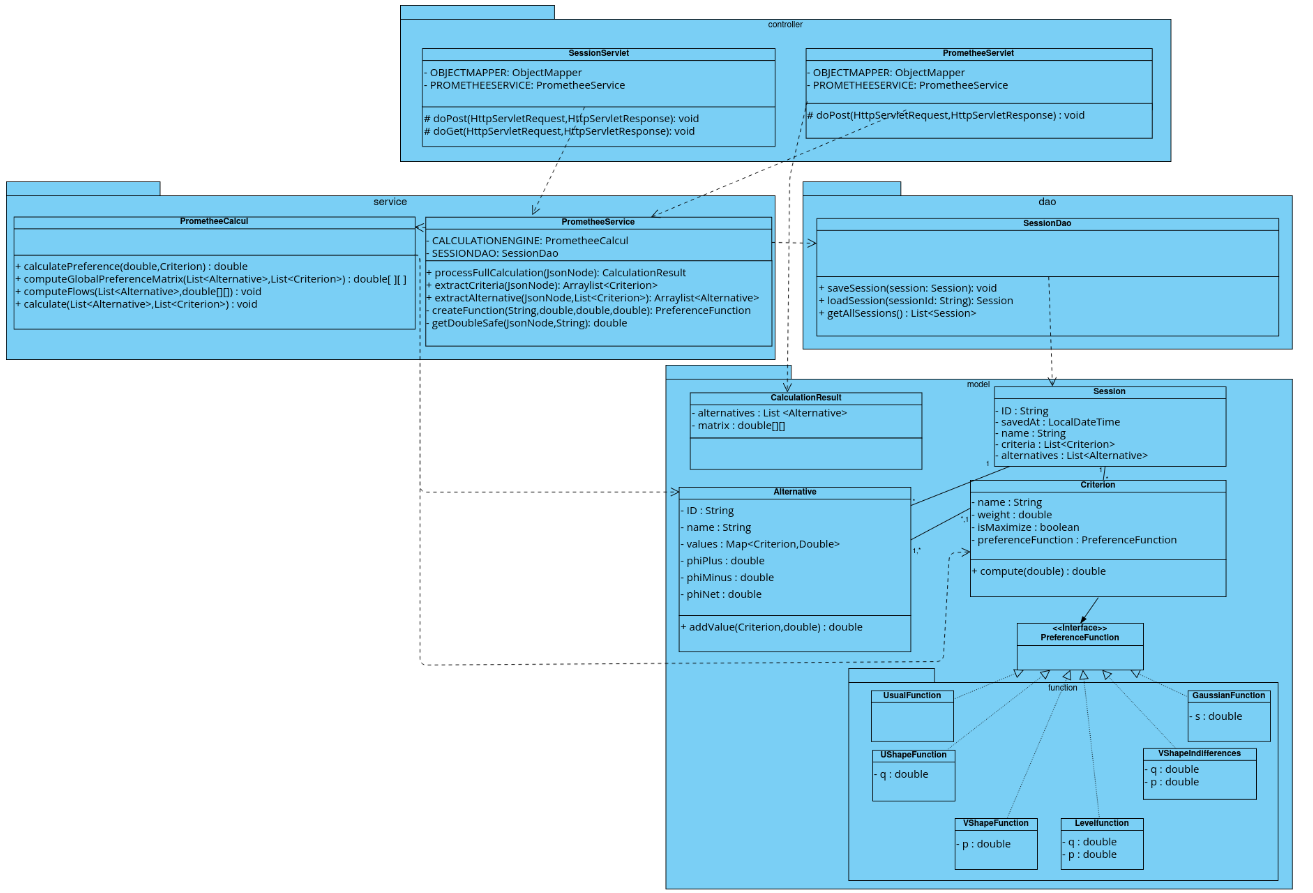
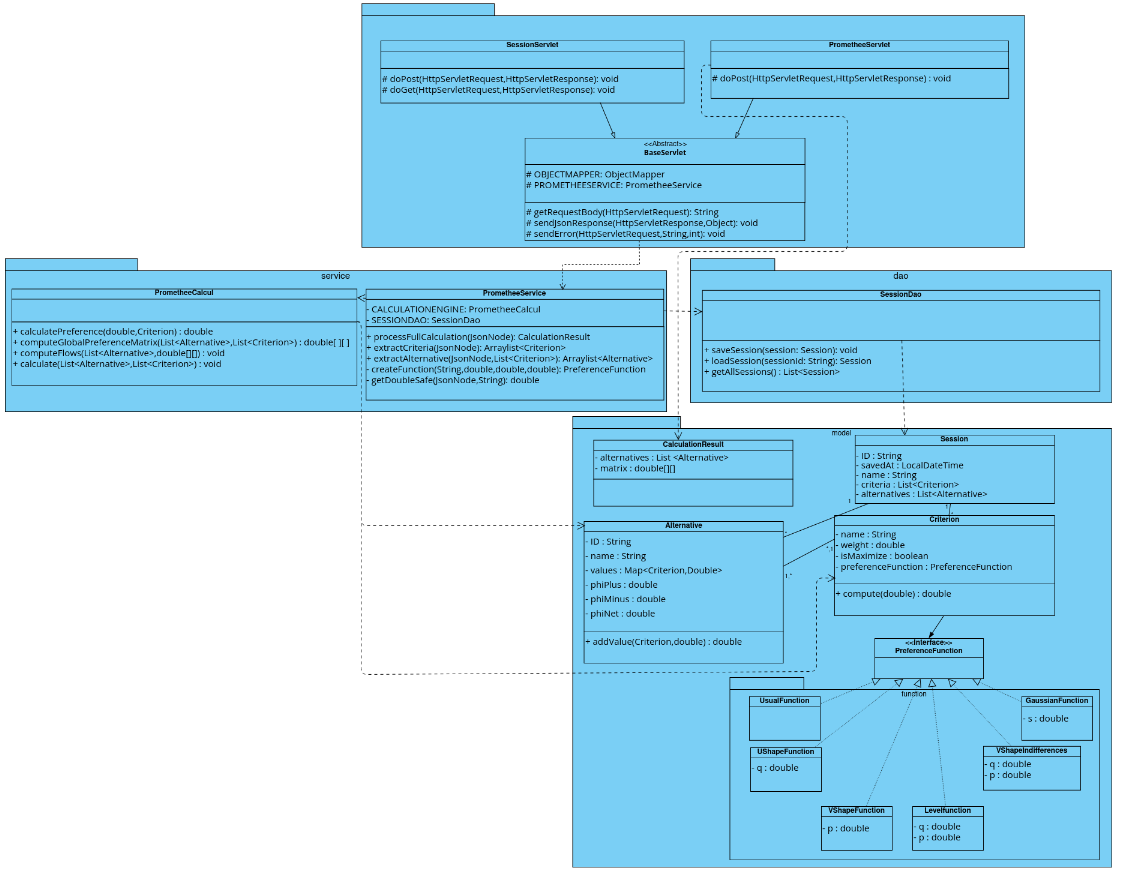
UML : Modification Uml and make Deployement Diagram

Changed region(s): [[0.0, 0.0, 0.9894, 1.0]]

diff --git a/js/script.js b/js/script.js
@@ -323,8 +323,7 @@ function updatePairwiseComparison() {
         if (altA && altB) {
             const pP = altA.phiPlus > altB.phiPlus, pM = altA.phiMinus < altB.phiMinus;
             const eP = Math.abs(altA.phiPlus - altB.phiPlus) < 0.0001, eM = Math.abs(altA.phiMinus - altB.phiMinus) < 0.0001;
-            let r = (eP && eM) ? "A I B (Indifference)" : ((pP && (pM || eM)) || (eP && pM)) ? "A P B (A Preferred to B)" : 
-                    (((altB.phiPlus > altA.phiPlus) && (altB.phiMinus < altA.phiMinus || eM)) || (eP && altB.phiMinus < altA.phiMinus)) ? "B P A (B Preferred to A)" : "A R B (Incomparability)";
+            let r = (eP && eM) ? "A I B (Indifference)" : ((pP && (pM || eM)) || (eP && pM)) ? "A P B (A Preferred to B)" : (((altB.phiPlus > altA.phiPlus) && (altB.phiMinus < altA.phiMinus || eM)) || (eP && altB.phiMinus < altA.phiMinus)) ? "B P A (B Preferred to A)" : "A R B (Incomparability)";
             rel.innerText = "Global Relation: " + r;
             
             // Populate footer with flows
